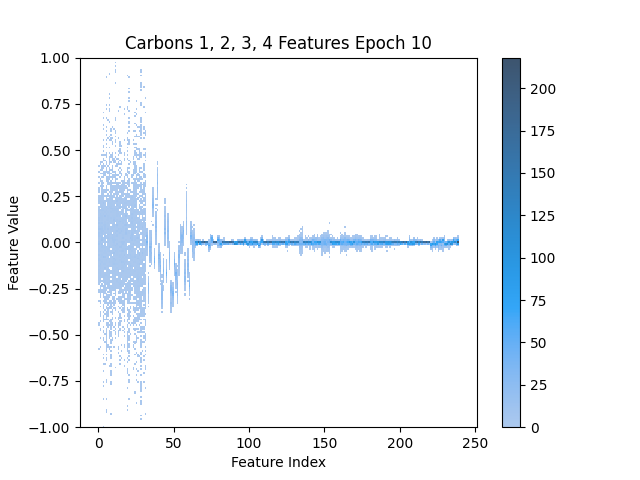
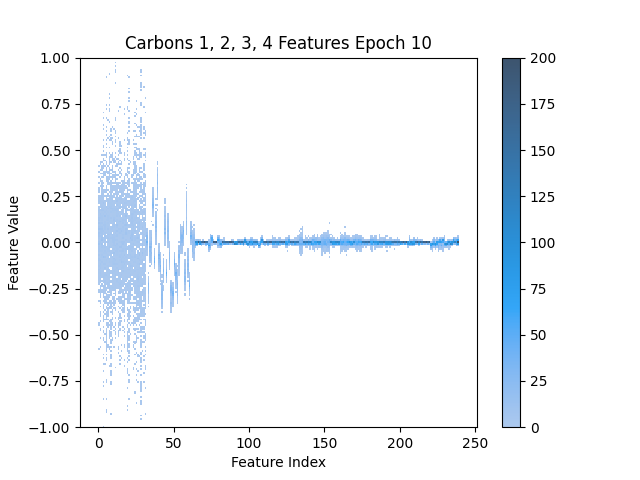
add plots for 50 epochs of training

diff --git a/nequip/scripts/aspirin_train_50_epochs/plot_features_per_atom_50_epochs.py b/nequip/scripts/aspirin_train_50_epochs/plot_features_per_atom_50_epochs.py
@@ -6,42 +6,47 @@ import seaborn as sns
 atomic_numbers = [6, 6, 6, 6, 6, 6, 6, 8, 8, 8, 6, 6, 8, 1, 1, 1, 1, 1, 1, 1, 1]
 
 # --- Code for creating 2d histograms per epoch. Uncomment one of lines 10-45 OR lines 51-88 --- #
-# data_C1 = np.empty((1, 240))
-# epoch1_v = np.load('C:/Users/alber/nequip/nequip/scripts/training_features/feats_v_epoch10.npz')
-#
-# for key in epoch1_v.files:
-#     data_C1 = np.concatenate((data_C1, epoch1_v[key][6:105:21]))
-#
-# data_C1 = data_C1[1:]
-# print(data_C1.shape)
-#
-# stack_data = np.array([])
-# for i in range(len(data_C1)):
-#     stack_data = np.concatenate((stack_data, data_C1[i]))
-#
-# rows, cols = data_C1.shape
-#
-# index = np.array([])
-# for i in range(rows):
-#     index = np.concatenate((index, np.arange(cols)))
-#
-# index = index.tolist()
-#
-# df_C1 = pd.DataFrame(stack_data, index=index, columns=['Feature Value'])
-# print(df_C1)
-#
-# feature_plot = sns.histplot(df_C1,
-#                             x=df_C1.index,
-#                             y='Feature Value',
-#                             binwidth=(1, 0.01),
-#                             cbar=True
-#                             )
-# feature_plot.set(ylim=(-1, 1))
-#
-# plt.title('Carbon 7 Features Epoch 10')
-# plt.xlabel('Feature Index')
-#
-# plt.show()
+data_C1 = np.empty((1, 240))
+epoch1_v = np.load('C:/Users/alber/nequip/nequip/scripts/aspirin_train_50_epochs/feats_v_epoch50.npz')
+
+for key in epoch1_v.files:
+    data_C1 = np.concatenate((data_C1, epoch1_v[key][0:105:21]))
+    data_C1 = np.concatenate((data_C1, epoch1_v[key][1:105:21]))
+    data_C1 = np.concatenate((data_C1, epoch1_v[key][2:105:21]))
+    data_C1 = np.concatenate((data_C1, epoch1_v[key][3:105:21]))
+
+data_C1 = data_C1[1:]
+print(data_C1.shape)
+
+stack_data = np.array([])
+for i in range(len(data_C1)):
+    stack_data = np.concatenate((stack_data, data_C1[i]))
+
+rows, cols = data_C1.shape
+
+index = np.array([])
+for i in range(rows):
+    index = np.concatenate((index, np.arange(cols)))
+
+index = index.tolist()
+
+df_C1 = pd.DataFrame(stack_data, index=index, columns=['Feature Value'])
+print(df_C1)
+
+feature_plot = sns.histplot(df_C1,
+                            x=df_C1.index,
+                            y='Feature Value',
+                            binwidth=(1, 0.01),
+                            cbar=True,
+                            vmin=0,
+                            vmax=200
+                            )
+feature_plot.set(ylim=(-1, 1))
+
+plt.title('Carbons 1, 2, 3, 4 Features Epoch 50')
+plt.xlabel('Feature Index')
+
+plt.show()
 
 
 # --- Code for creating line plots of averages --- #
@@ -49,41 +54,41 @@ atomic_numbers = [6, 6, 6, 6, 6, 6, 6, 8, 8, 8, 6, 6, 8, 1, 1, 1, 1, 1, 1, 1, 1]
 data_C1_all_epochs = []
 
 # - Code for creating line plots for multiple epochs. Uncomment one of lines 52-60 OR lines 63-73 - #
-# for i in 1, 5, 10:
-#     epoch_data = np.load('C:/Users/alber/nequip/nequip/scripts/training_features/feats_v_epoch' + str(i) + '.npz')
+# for i in 10, 50:
+#     epoch_data = np.load('C:/Users/alber/nequip/nequip/scripts/aspirin_train_50_epochs/feats_v_epoch' + str(i) + '.npz')
 #     tmp_data = np.empty((1, 240))
 #     for key in epoch_data.files:
-#         tmp_data = np.concatenate((tmp_data, epoch_data[key][0:105:21]))
+#         tmp_data = np.concatenate((tmp_data, epoch_data[key][20:105:21]))
 #
 #     tmp_data = tmp_data[1:]
 #     avg_data_C1 = np.average(tmp_data, axis=0)
 #     data_C1_all_epochs.append(avg_data_C1)
 
 # - Code for creating line plots for one epoch. Uncomment one of lines 52-60 OR lines 63-73 - #
-epoch_data = np.load('C:/Users/alber/nequip/nequip/scripts/aspirin_train_50_epochs/feats_v_epoch50.npz')
+# epoch_data = np.load('C:/Users/alber/nequip/nequip/scripts/aspirin_train_50_epochs/feats_v_epoch50.npz')
+#
+# tmp_data = np.empty((1, 240))
+# for key in epoch_data.files:
+#     tmp_data = np.concatenate((tmp_data, epoch_data[key][7:105:21]))
+#     tmp_data = np.concatenate((tmp_data, epoch_data[key][8:105:21]))
+#     tmp_data = np.concatenate((tmp_data, epoch_data[key][20:105:21]))
+#     tmp_data = np.concatenate((tmp_data, epoch_data[key][3:105:21]))
+#
+# tmp_data = tmp_data[1:]
+# avg_data_C1 = np.average(tmp_data, axis=0)
+# data_C1_all_epochs.append(avg_data_C1)
+#
+# # - Create line plot of the dataframe - #
+# data_C1_all_epochs = np.array(data_C1_all_epochs)
+# print(data_C1_all_epochs.shape)
+#
+# df_C1_all_epochs = pd.DataFrame(data_C1_all_epochs, index=['Epoch 50'])
+# df_C1_all_epochs = df_C1_all_epochs.transpose()
+# print(df_C1_all_epochs)
 
-tmp_data = np.empty((1, 240))
-for key in epoch_data.files:
-    tmp_data = np.concatenate((tmp_data, epoch_data[key][14:105:21]))
-    tmp_data = np.concatenate((tmp_data, epoch_data[key][15:105:21]))
-    tmp_data = np.concatenate((tmp_data, epoch_data[key][16:105:21]))
-    tmp_data = np.concatenate((tmp_data, epoch_data[key][17:105:21]))
-
-tmp_data = tmp_data[1:]
-avg_data_C1 = np.average(tmp_data, axis=0)
-data_C1_all_epochs.append(avg_data_C1)
-
-# - Create line plot of the dataframe - #
-data_C1_all_epochs = np.array(data_C1_all_epochs)
-print(data_C1_all_epochs.shape)
-
-df_C1_all_epochs = pd.DataFrame(data_C1_all_epochs, index=['Epoch 10'])
-df_C1_all_epochs = df_C1_all_epochs.transpose()
-print(df_C1_all_epochs)
-
-df_C1_all_epochs.plot(kind='line', alpha=0.6, ylim=(-0.45, 0.45), color='blue')
-plt.legend(loc='lower right')
-plt.title('Hydrogens 2, 3, 4, 5 Validation Features (Averaged 50 Per Atom)')
-plt.xlabel('Feature Index')
-plt.ylabel('Feature Value')
-plt.show()
+# df_C1_all_epochs.plot(kind='line', alpha=1, ylim=(-0.45, 0.45), color=['darkblue'])
+# plt.legend(loc='lower right')
+# plt.title('Oxygens 1, 2 Validation Features (Averaged 50 Per Atom)')
+# plt.xlabel('Feature Index')
+# plt.ylabel('Feature Value')
+# plt.show()

diff --git a/nequip/scripts/aspirin_train_10_epochs/training_features/plot_features_per_atom.py b/nequip/scripts/aspirin_train_10_epochs/training_features/plot_features_per_atom.py
@@ -6,42 +6,47 @@ import seaborn as sns
 atomic_numbers = [6, 6, 6, 6, 6, 6, 6, 8, 8, 8, 6, 6, 8, 1, 1, 1, 1, 1, 1, 1, 1]
 
 # --- Code for creating 2d histograms per epoch. Uncomment one of lines 10-45 OR lines 51-88 --- #
-# data_C1 = np.empty((1, 240))
-# epoch1_v = np.load('C:/Users/alber/nequip/nequip/scripts/training_features/feats_v_epoch10.npz')
-#
-# for key in epoch1_v.files:
-#     data_C1 = np.concatenate((data_C1, epoch1_v[key][6:105:21]))
-#
-# data_C1 = data_C1[1:]
-# print(data_C1.shape)
-#
-# stack_data = np.array([])
-# for i in range(len(data_C1)):
-#     stack_data = np.concatenate((stack_data, data_C1[i]))
-#
-# rows, cols = data_C1.shape
-#
-# index = np.array([])
-# for i in range(rows):
-#     index = np.concatenate((index, np.arange(cols)))
-#
-# index = index.tolist()
-#
-# df_C1 = pd.DataFrame(stack_data, index=index, columns=['Feature Value'])
-# print(df_C1)
-#
-# feature_plot = sns.histplot(df_C1,
-#                             x=df_C1.index,
-#                             y='Feature Value',
-#                             binwidth=(1, 0.01),
-#                             cbar=True
-#                             )
-# feature_plot.set(ylim=(-1, 1))
-#
-# plt.title('Carbon 7 Features Epoch 10')
-# plt.xlabel('Feature Index')
-#
-# plt.show()
+data_C1 = np.empty((1, 240))
+epoch1_v = np.load('C:/Users/alber/nequip/nequip/scripts/aspirin_train_10_epochs/training_features/feats_v_epoch10.npz')
+
+for key in epoch1_v.files:
+    data_C1 = np.concatenate((data_C1, epoch1_v[key][7:105:21]))
+    data_C1 = np.concatenate((data_C1, epoch1_v[key][8:105:21]))
+    # data_C1 = np.concatenate((data_C1, epoch1_v[key][20:105:21]))
+    # data_C1 = np.concatenate((data_C1, epoch1_v[key][3:105:21]))
+
+data_C1 = data_C1[1:]
+print(data_C1.shape)
+
+stack_data = np.array([])
+for i in range(len(data_C1)):
+    stack_data = np.concatenate((stack_data, data_C1[i]))
+
+rows, cols = data_C1.shape
+
+index = np.array([])
+for i in range(rows):
+    index = np.concatenate((index, np.arange(cols)))
+
+index = index.tolist()
+
+df_C1 = pd.DataFrame(stack_data, index=index, columns=['Feature Value'])
+print(df_C1)
+
+feature_plot = sns.histplot(df_C1,
+                            x=df_C1.index,
+                            y='Feature Value',
+                            binwidth=(1, 0.01),
+                            cbar=True,
+                            vmin=0,
+                            vmax=100
+                            )
+feature_plot.set(ylim=(-1, 1))
+
+plt.title('Oxygens 1, 2 Features Epoch 10')
+plt.xlabel('Feature Index')
+
+plt.show()
 
 
 # --- Code for creating line plots of averages --- #
@@ -60,29 +65,29 @@ data_C1_all_epochs = []
 #     data_C1_all_epochs.append(avg_data_C1)
 
 # - Code for creating line plots for one epoch. Uncomment one of lines 52-60 OR lines 63-73 - #
-epoch_data = np.load('C:/Users/alber/nequip/nequip/scripts/training_features/feats_v_epoch10.npz')
-tmp_data = np.empty((1, 240))
-for key in epoch_data.files:
-    tmp_data = np.concatenate((tmp_data, epoch_data[key][14:105:21]))
-    tmp_data = np.concatenate((tmp_data, epoch_data[key][15:105:21]))
-    tmp_data = np.concatenate((tmp_data, epoch_data[key][16:105:21]))
-    tmp_data = np.concatenate((tmp_data, epoch_data[key][17:105:21]))
-
-tmp_data = tmp_data[1:]
-avg_data_C1 = np.average(tmp_data, axis=0)
-data_C1_all_epochs.append(avg_data_C1)
-
-# - Create line plot of the dataframe - #
-data_C1_all_epochs = np.array(data_C1_all_epochs)
-print(data_C1_all_epochs.shape)
-
-df_C1_all_epochs = pd.DataFrame(data_C1_all_epochs, index=['Epoch 10'])
-df_C1_all_epochs = df_C1_all_epochs.transpose()
-print(df_C1_all_epochs)
-
-df_C1_all_epochs.plot(kind='line', alpha=0.6, ylim=(-0.45, 0.45), color='blue')
-plt.legend(loc='lower right')
-plt.title('Hydrogens 2, 3, 4, 5 Validation Features (Averaged 50 Per Atom)')
-plt.xlabel('Feature Index')
-plt.ylabel('Feature Value')
-plt.show()
+# epoch_data = np.load('C:/Users/alber/nequip/nequip/scripts/training_features/feats_v_epoch10.npz')
+# tmp_data = np.empty((1, 240))
+# for key in epoch_data.files:
+#     tmp_data = np.concatenate((tmp_data, epoch_data[key][14:105:21]))
+#     tmp_data = np.concatenate((tmp_data, epoch_data[key][15:105:21]))
+#     tmp_data = np.concatenate((tmp_data, epoch_data[key][16:105:21]))
+#     tmp_data = np.concatenate((tmp_data, epoch_data[key][17:105:21]))
+#
+# tmp_data = tmp_data[1:]
+# avg_data_C1 = np.average(tmp_data, axis=0)
+# data_C1_all_epochs.append(avg_data_C1)
+#
+# # - Create line plot of the dataframe - #
+# data_C1_all_epochs = np.array(data_C1_all_epochs)
+# print(data_C1_all_epochs.shape)
+#
+# df_C1_all_epochs = pd.DataFrame(data_C1_all_epochs, index=['Epoch 10'])
+# df_C1_all_epochs = df_C1_all_epochs.transpose()
+# print(df_C1_all_epochs)
+#
+# df_C1_all_epochs.plot(kind='line', alpha=0.6, ylim=(-0.45, 0.45), color='blue')
+# plt.legend(loc='lower right')
+# plt.title('Hydrogens 2, 3, 4, 5 Validation Features (Averaged 50 Per Atom)')
+# plt.xlabel('Feature Index')
+# plt.ylabel('Feature Value')
+# plt.show()
